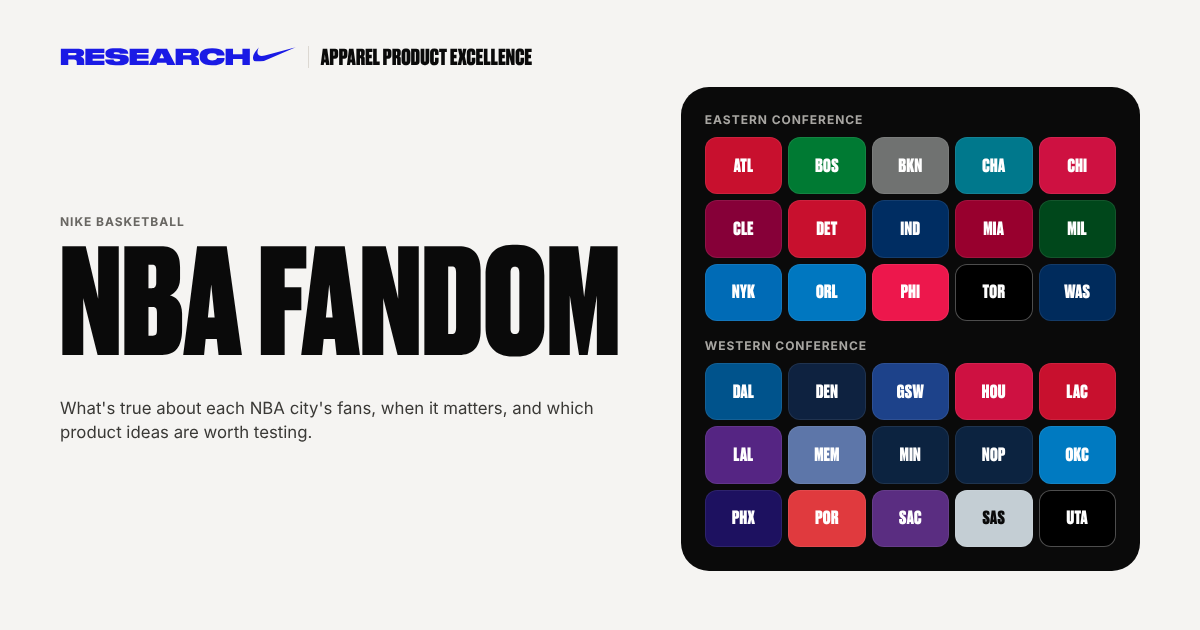
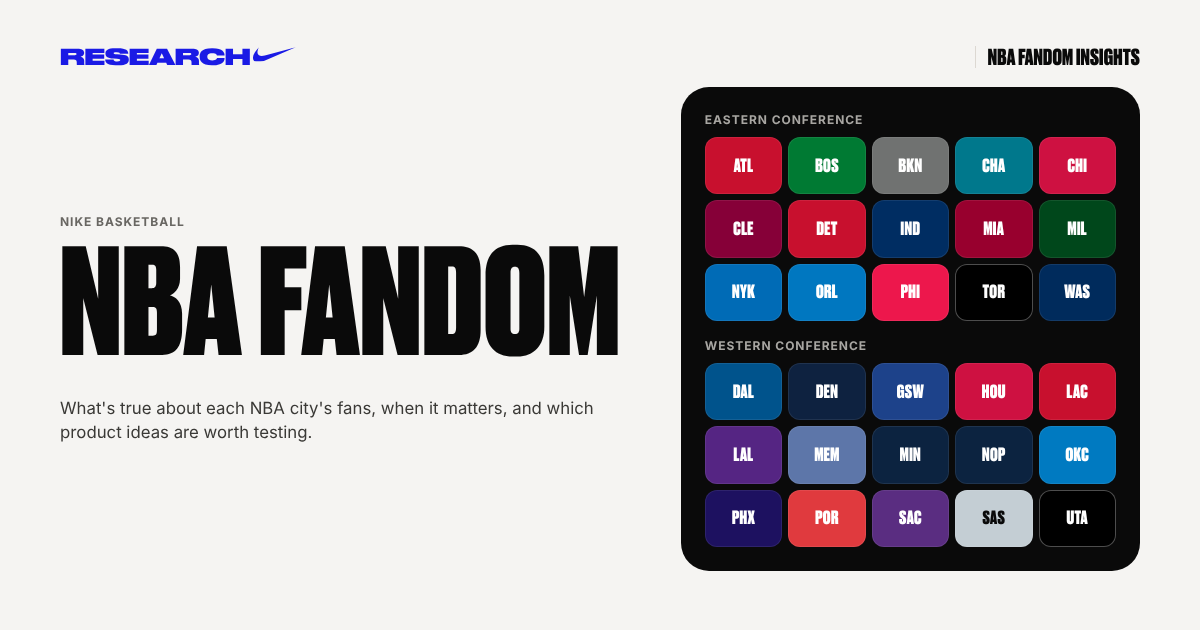
Header: NBA Fandom Insights on the right; phone nav wraps instead of scrolling
The tagline sits at the right edge of the header. On phones every nav item
is visible at once on two rows (three on the narrowest phones) instead of
hiding behind a sideways scroll; the smoke test now checks no nav item is
off screen.

Claude-Session: https://claude.ai/code/session_01RDpHxEvHiEg9pu3Wp7pKQz

Changed region(s): [[0.2467, 0.0603, 0.4625, 0.1206], [0.8017, 0.0603, 0.9558, 0.1206]]

diff --git a/src/nba/homecourt.css b/src/nba/homecourt.css
@@ -20,19 +20,19 @@
 
 /* ── Header ─────────────────────────────────────────────── */
 .hc-header { display: flex; align-items: center; justify-content: space-between; gap: 16px; margin-bottom: 28px; flex-wrap: wrap; }
-.hc-brand { display: inline-flex; align-items: center; gap: 12px; text-decoration: none; }
-.hc-brand-divider { width: 1px; height: 22px; background: var(--border); }
-.hc-brand-name { font-family: var(--font-display); font-weight: 900; font-size: 22px; letter-spacing: 0.01em; text-transform: uppercase; line-height: 1; padding-top: 3px; }
+.hc-brand { display: flex; flex: 1 1 100%; align-items: center; gap: 12px; text-decoration: none; }
+.hc-brand-divider { width: 1px; height: 22px; background: var(--border); margin-left: auto; }
+.hc-brand-name { font-family: var(--font-display); font-weight: 900; font-size: 22px; letter-spacing: 0.01em; text-transform: uppercase; line-height: 1; padding-top: 3px; text-align: right; }
 @media (max-width: 520px) { .hc-brand { gap: 9px; } .hc-brand .hc-mark { font-size: 17px !important; } .hc-brand-name { font-size: 14px; line-height: 1.05; max-width: 11em; } .hc-brand-divider { height: 30px; } }
 @media (max-width: 360px) { .hc-brand .hc-mark { font-size: 15px !important; } .hc-brand-name { font-size: 12.5px; } }
 .hc-nav { display: flex; gap: 6px; flex-wrap: wrap; }
 .hc-nav a { text-decoration: none; font-size: 14px; font-weight: 600; padding: 8px 14px; border-radius: var(--radius-pill); color: var(--text); }
 .hc-nav a:hover { background: var(--surface); }
 .hc-nav a[aria-current="page"] { background: var(--text); color: var(--bg); }
+/* Phones: every section visible at once, wrapped onto two rows, no hidden scroll. */
 @media (max-width: 760px) {
-  .hc-nav { flex-wrap: nowrap; overflow-x: auto; scrollbar-width: none; width: calc(100% + 2 * var(--container-pad)); margin: 0 calc(-1 * var(--container-pad)); padding: 0 var(--container-pad); }
-  .hc-nav::-webkit-scrollbar { display: none; }
-  .hc-nav a { white-space: nowrap; }
+  .hc-nav { gap: 6px 4px; }
+  .hc-nav a { white-space: nowrap; font-size: 13px; padding: 7px 9px; }
 }
 
 /* ── Type ───────────────────────────────────────────────── */

diff --git a/src/nba/ui.jsx b/src/nba/ui.jsx
@@ -37,10 +37,10 @@ export function Header({ route }) {
   const link = (to, label, active) => <a href={to} aria-current={active ? "page" : undefined}>{label}</a>;
   return (
     <header className="hc-header">
-      <a className="hc-brand" href={href()} aria-label="Research Apparel Product Excellence: home">
+      <a className="hc-brand" href={href()} aria-label="Research NBA Fandom Insights: home">
         <ResearchMark />
         <span className="hc-brand-divider" />
-        <span className="hc-brand-name">Apparel Product Excellence</span>
+        <span className="hc-brand-name">NBA Fandom Insights</span>
       </a>
       <nav className="hc-nav" aria-label="Primary">
         {link(href(), "Markets", section === "" || section === "m")}
